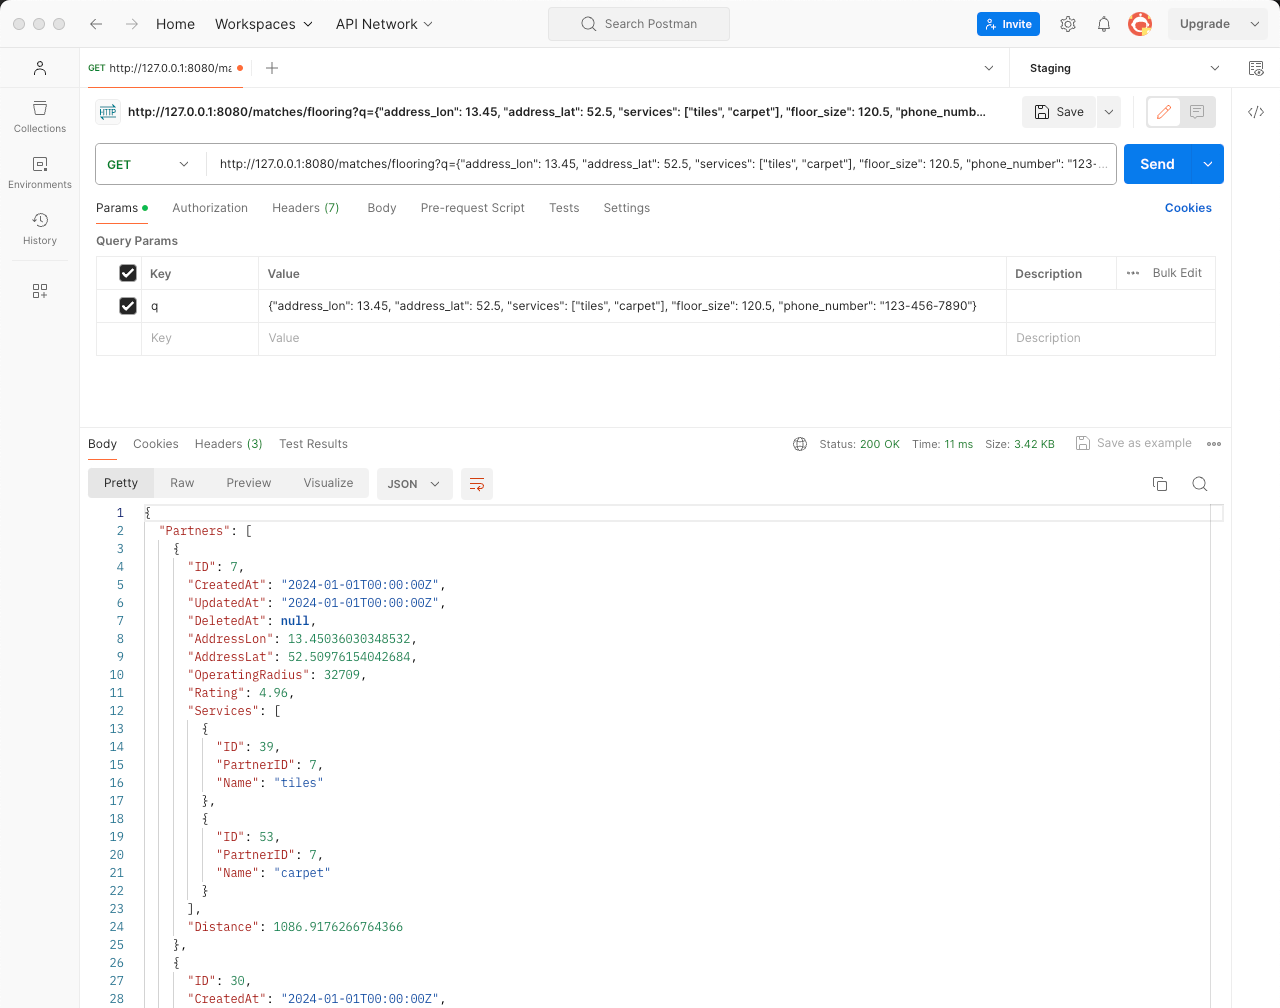
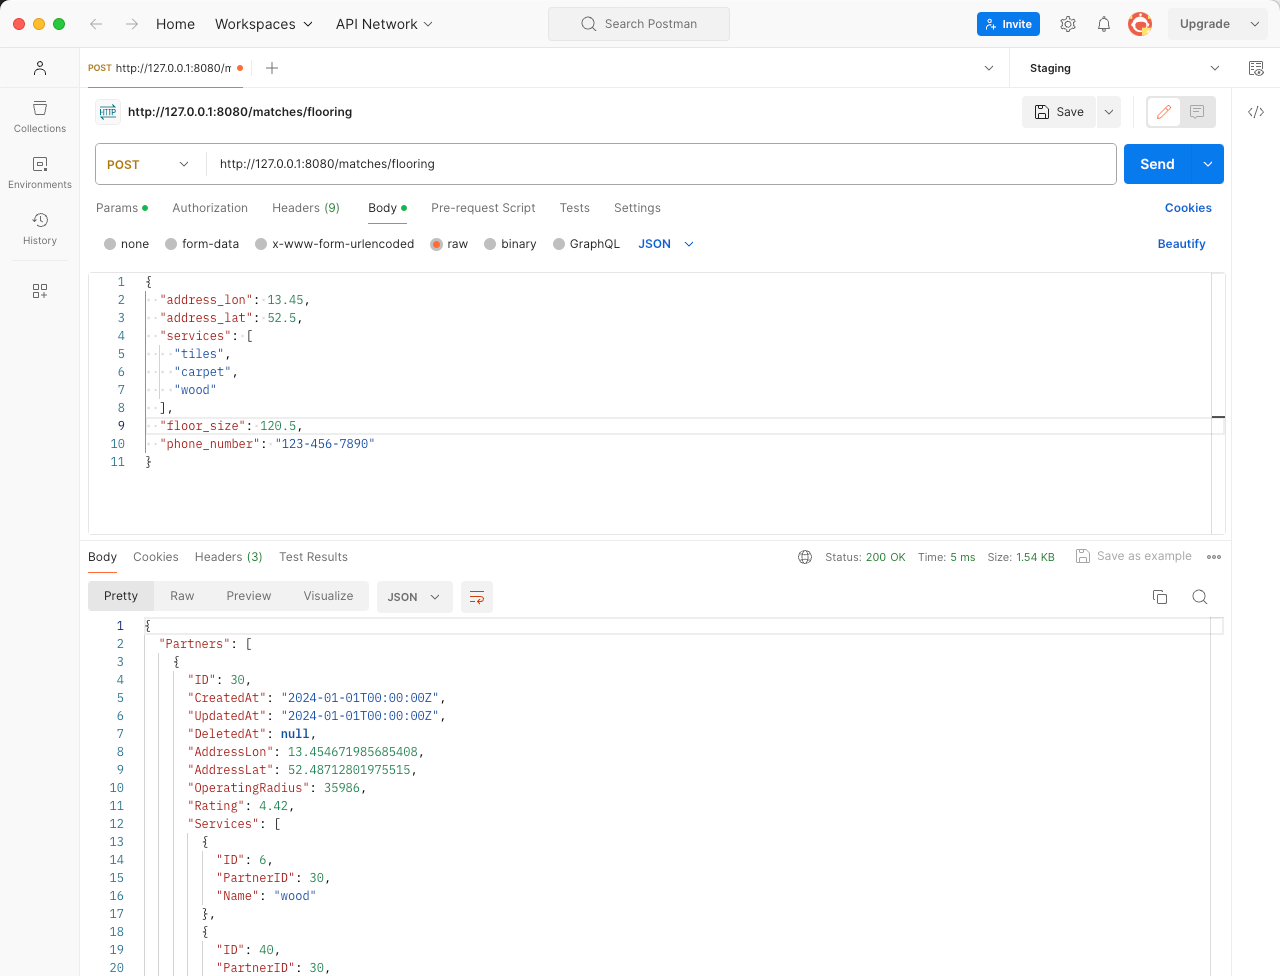
Apply changes to README.md, docs/docs.go, docs/swagger.json, ...

diff --git a/docs/docs.go b/docs/docs.go
@@ -16,8 +16,8 @@ const docTemplate = `{
     "basePath": "{{.BasePath}}",
     "paths": {
         "/matches/flooring": {
-            "get": {
-                "description": "API for retrieving flooring matches based on user preferences.\nRetrieves matches based on flooring preferences",
+            "post": {
+                "description": "Retrieves matches based on flooring preferences submitted by the customer",
                 "consumes": [
                     "application/json"
                 ],
@@ -30,23 +30,24 @@ const docTemplate = `{
                 "summary": "Retrieve flooring matches",
                 "parameters": [
                     {
-                        "type": "string",
-                        "example": "'{\"address_lon\": 13.45, \"address_lat\": 52.5, \"services\": [\"tiles\", \"carpet\"], \"floor_size\": 120.5, \"phone_number\": \"123-456-7890\"}'",
-                        "description": "QueryParams Object",
-                        "name": "q",
-                        "in": "query",
-                        "required": true
+                        "description": "Query Parameters",
+                        "name": "query",
+                        "in": "body",
+                        "required": true,
+                        "schema": {
+                            "$ref": "#/definitions/main.QueryParams"
+                        }
                     }
                 ],
                 "responses": {
                     "200": {
-                        "description": "OK",
+                        "description": "success",
                         "schema": {
-                            "$ref": "#/definitions/main.QueryParams"
+                            "$ref": "#/definitions/main.FlooringMatchesResponse"
                         }
                     },
                     "400": {
-                        "description": "Bad Request",
+                        "description": "bad request, invalid input",
                         "schema": {
                             "type": "object",
                             "additionalProperties": {
@@ -59,6 +60,46 @@ const docTemplate = `{
         }
     },
     "definitions": {
+        "main.FlooringMatchesResponse": {
+            "type": "object",
+            "properties": {
+                "partners": {
+                    "type": "array",
+                    "items": {
+                        "$ref": "#/definitions/main.Partner"
+                    }
+                }
+            }
+        },
+        "main.Partner": {
+            "type": "object",
+            "properties": {
+                "addressLat": {
+                    "type": "number"
+                },
+                "addressLon": {
+                    "type": "number"
+                },
+                "distance": {
+                    "type": "number"
+                },
+                "id": {
+                    "type": "integer"
+                },
+                "operatingRadius": {
+                    "type": "number"
+                },
+                "rating": {
+                    "type": "number"
+                },
+                "services": {
+                    "type": "array",
+                    "items": {
+                        "$ref": "#/definitions/main.Service"
+                    }
+                }
+            }
+        },
         "main.QueryParams": {
             "type": "object",
             "required": [
@@ -86,6 +127,17 @@ const docTemplate = `{
                     "items": {
                         "type": "string"
                     }
+                }
+            }
+        },
+        "main.Service": {
+            "type": "object",
+            "properties": {
+                "id": {
+                    "type": "integer"
+                },
+                "name": {
+                    "type": "string"
                 }
             }
         }

diff --git a/handlers.go b/handlers.go
@@ -1,33 +1,26 @@
 package main
 
 import (
-	"encoding/json"
 	"net/http"
 	"gorm.io/gorm"
 	"github.com/gin-gonic/gin"
+	_ "matching/docs"
 )
 
-// @title Flooring Matches API
-// @description API for retrieving flooring matches based on user preferences.
-// @version 1
-// @host localhost:8080
-// @BasePath /
+// PostFlooringMatches godoc
 // @Summary Retrieve flooring matches
-// @Description Retrieves matches based on flooring preferences
+// @Description Retrieves matches based on flooring preferences submitted by the customer
 // @Tags matches
 // @Accept json
 // @Produce json
-// @Param q query string true "QueryParams Object" example('{"address_lon": 13.45, "address_lat": 52.5, "services": ["tiles", "carpet"], "floor_size": 120.5, "phone_number": "123-456-7890"}')
-// @Success 200 {object} QueryParams
-// @Failure 400 {object} map[string]string
-// @Router /matches/flooring [get]
+// @Param query body QueryParams true "Query Parameters"
+// @Success 200 {object} FlooringMatchesResponse "success"
+// @Failure 400 {object} map[string]string "bad request, invalid input"
+// @Router /matches/flooring [post]
 func Flooring(c *gin.Context, db *gorm.DB) {
 	var queryParams QueryParams
-
-	q := c.Query("q")
-
-	if err := json.Unmarshal([]byte(q), &queryParams); err != nil {
-		c.JSON(http.StatusBadRequest, gin.H{"error": "Invalid query parameter"})
+	if err := c.ShouldBindJSON(&queryParams); err != nil {
+		c.JSON(http.StatusBadRequest, gin.H{"error": err.Error()})
 		return
 	}
 

diff --git a/models.go b/models.go
@@ -24,7 +24,26 @@ type Partners struct {
 type QueryParams struct {
 	AddressLon   float64   `json:"address_lon" binding:"required"`
 	AddressLat   float64   `json:"address_lat" binding:"required"`
-	Services     []string  `json:"services" binding:"required"`
-	FloorSize    float64   `json:"floor_size" binding:"required"`
+	Services     []string  `json:"services" binding:"required,gt=0"`
+	FloorSize    float64   `json:"floor_size" binding:"required,gt=0"`
 	PhoneNumber  string    `json:"phone_number" binding:"required"`
+}
+
+type FlooringMatchesResponse struct {
+	Partners []Partner `json:"partners"`
+}
+
+type Partner struct {
+	ID               uint       `json:"id"`
+	AddressLon       float64    `json:"addressLon"`
+	AddressLat       float64    `json:"addressLat"`
+	OperatingRadius  float64    `json:"operatingRadius"`
+	Rating           float64    `json:"rating"`
+	Services         []Service  `json:"services"`
+	Distance         float64    `json:"distance,omitempty"`
+}
+
+type Service struct {
+	ID        uint   `json:"id"`
+	Name      string `json:"name"`
 }

diff --git a/main.go b/main.go
@@ -13,7 +13,7 @@ func main() {
 
 	router.GET("/swagger/*any", ginSwagger.WrapHandler(swaggerFiles.Handler))
 
-	router.GET("/matches/flooring", func(c *gin.Context) {
+	router.POST("/matches/flooring", func(c *gin.Context) {
 		Flooring(c, db)
 	})
 

diff --git a/utils.go b/utils.go
@@ -4,7 +4,6 @@ import (
 	"log"
 	"math"
 	"os"
-	_ "matching/docs"
 )
 
 // Standard function to calculate the distance of two points

diff --git a/README.md b/README.md
@@ -42,28 +42,6 @@ an example (by the function validateServices).
 
 ## Execute Example Query
 
-    > PARM=$(echo -n '{"address_lon": 13.45, "address_lat": 52.5, "services": ["tiles", "carpet"], "floor_size": 120.5, "phone_number": "123-456-7890"}' | jq -s -R -r @uri)
-
-    > curl "http://localhost:8080/matches/flooring?q=$(echo -n $PARM)" | jq .
-      {
-        "Partners": [
-          {
-            "ID": 7,
-            "CreatedAt": "2024-01-01T00:00:00Z",
-            "UpdatedAt": "2024-01-01T00:00:00Z",
-            "DeletedAt": null,
-            "AddressLon": 13.45036030348532,
-            "AddressLat": 52.50976154042684,
-            "OperatingRadius": 32709,
-            "Rating": 4.96,
-            "Services": [
-              {
-                "ID": 39,
-                "PartnerID": 7,
-                "Name": "tiles"
-              },
-      [...]
-
 ![Postman Request](static/postman-request.png)
 
 ## Open Swagger Docs
